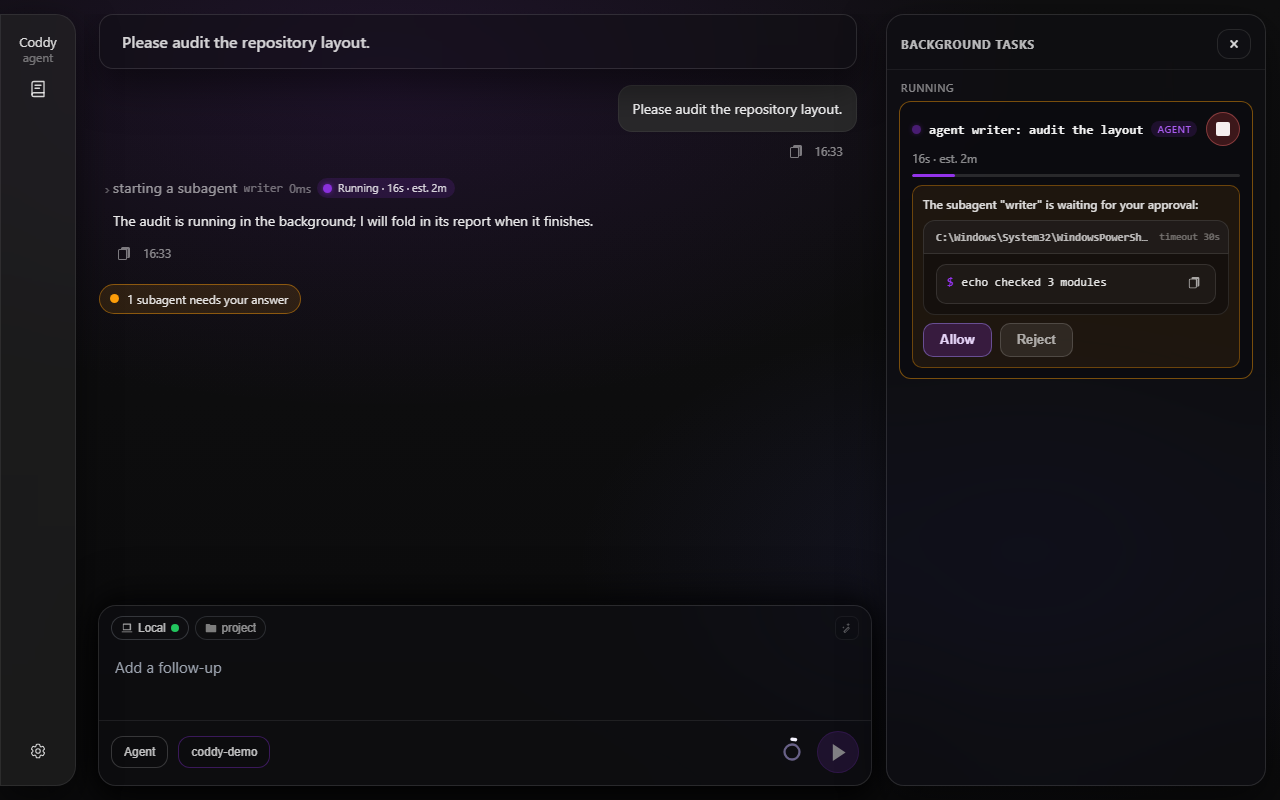
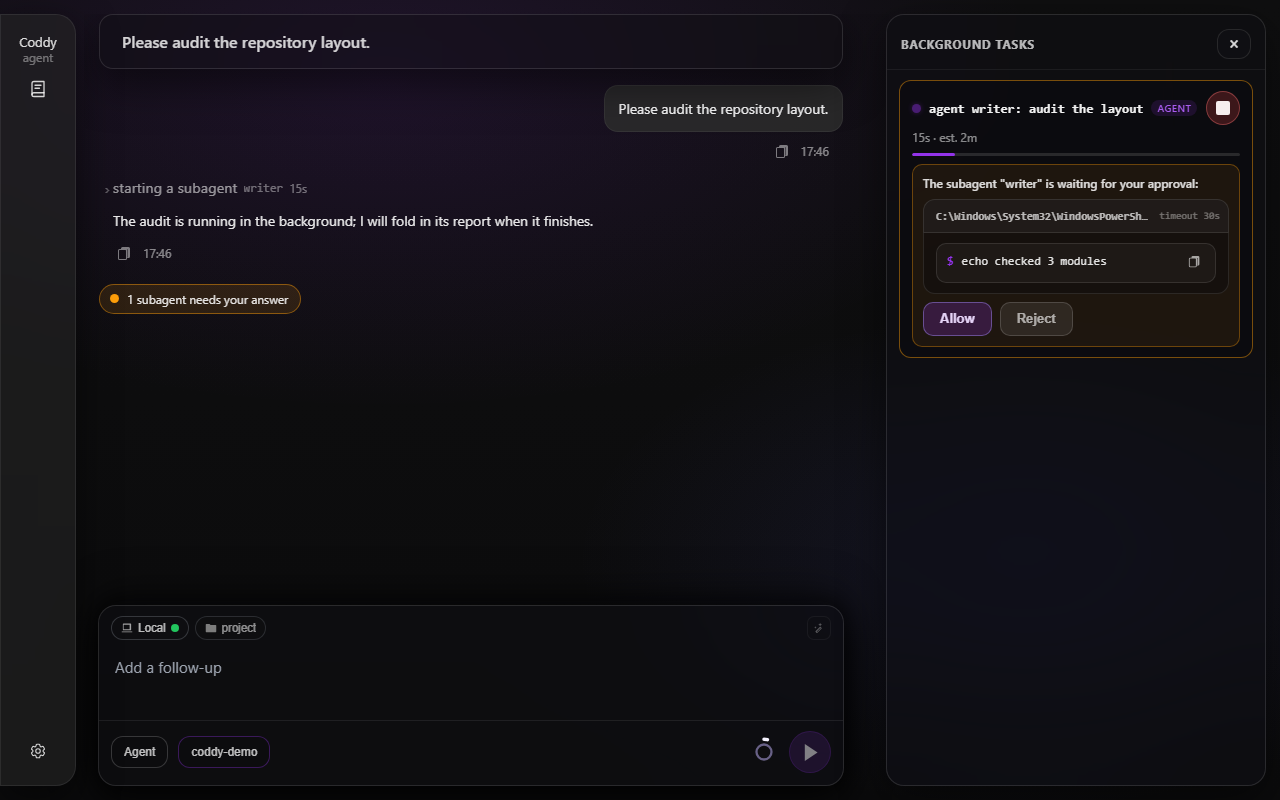
docs(subagents): recapture the approval surfaces on the merged UI
main dropped the Running heading of the tasks panel and renamed the
background spawn row while this branch was open, so the three captures
on docs/features/subagents.md are taken again from the merged build.

diff --git a/docs/assets/INDEX.md b/docs/assets/INDEX.md
@@ -117,11 +117,11 @@ Generated by `make docs`. "Used by" lists the files that reference the asset.
 
 | File | Size | Used by |
 |------|------|---------|
-| `chat-spawn-refused-dark-1280.png` | 266 KB | DESIGN.md, docs/features/subagents.md |
+| `chat-spawn-refused-dark-1280.png` | 265 KB | DESIGN.md, docs/features/subagents.md |
 | `child-transcript-readonly-dark.png` | 240 KB | docs/features/subagents.md |
 | `settings-subagents-catalog-dark-1280.png` | 177 KB | DESIGN.md, docs/features/subagents.md, docs/surfaces/web-ui.md |
 | `spawn-agent-card-dark-1280.png` | 62 KB | docs/features/subagents.md |
-| `tasks-detached-permission-dark-1280.png` | 237 KB | DESIGN.md, docs/features/subagents.md |
+| `tasks-detached-permission-dark-1280.png` | 238 KB | DESIGN.md, docs/features/subagents.md |
 | `tasks-detail-agent-finished-dark.png` | 332 KB | docs/features/subagents.md |
 | `tasks-panel-agent-running-dark.png` | 250 KB | docs/contributing/documentation.md, docs/features/subagents.md |
 
